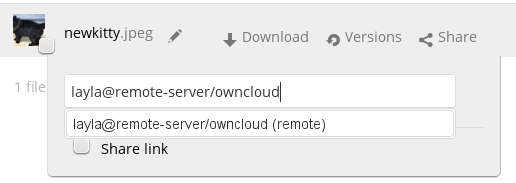
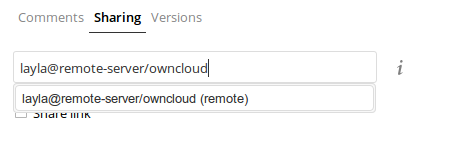
Update screenshots of federated sharing to use the sidebar and notifications

diff --git a/user_manual/files/federated_cloud_sharing.rst b/user_manual/files/federated_cloud_sharing.rst
@@ -15,25 +15,26 @@ by default. (See "Configuring Federated Cloud Sharing" in the ownCloud Server
 Administration Manual.) Follow these steps to create a new share:
 
 1. Go to your ``Files`` page and click the Share icon on the file or directory 
-you want to share. Enter the username and URL of the remote user in this form: 
-``<username>@<oc-server-url>``. In this example, that is 
+you want to share. In the sidebar enter the username and URL of the remote user
+in this form: ``<username>@<oc-server-url>``. In this example, that is
 ``layla@remote-server/owncloud``. The form automatically echoes the address 
 that you type and labels it as "remote".
 
 .. figure:: ../images/direct-share-1.png
 
-2. You'll see a status indicator as ownCloud looks for the remote server. 
-
-.. figure:: ../images/direct-share-2.png
-
-When your local ownCloud server makes a successful connection with the remote 
+2. When your local ownCloud server makes a successful connection with the remote
 ownCloud server you'll see a confirmation.
    
 .. figure:: ../images/direct-share-3.png   
 
-Your recipient on the other end of the link, on the remote ownCloud server, 
-will see a dialog asking them to confirm the new share. All they have to do is 
-click the **Add remote share** button, and it's done.
+3. Since ownCloud 9.0 your recipient on the other end of the link, on the remote
+ownCloud server, will get a notification asking them to confirm the new share.
+All they have to do is click the **Accept** button, and it's done.
+
+.. figure:: ../images/direct-share-5.png
+
+If the remote server does not have the notification app installed, the recipient
+will see the dialog from the previous ownCloud versions.
 
 .. figure:: ../images/direct-share-4.png
 
